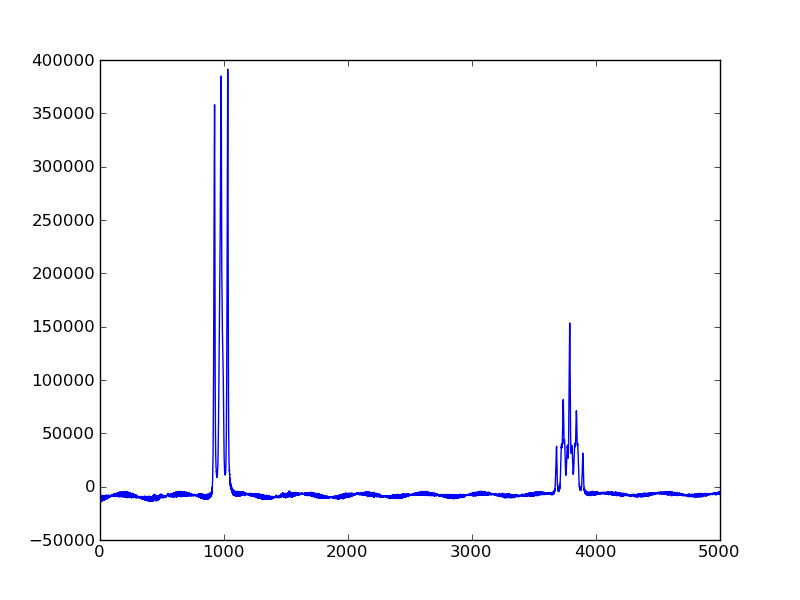
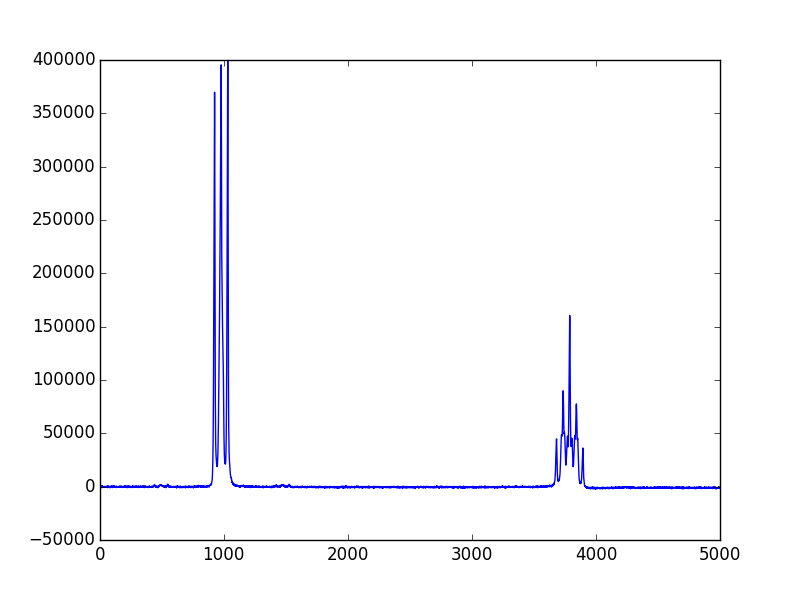
Add trucate parameter to ng.bruker.remove_digital_filter
When True this parameter causes the phase applied when removing the Bruker
digital filter to be truncated, this is the default option.

Closes #24

diff --git a/nmrglue/fileio/bruker.py b/nmrglue/fileio/bruker.py
@@ -1365,7 +1365,7 @@ bruker_dsp_table = {
 }
 
 
-def remove_digital_filter(dic, data):
+def remove_digital_filter(dic, data, truncate=True):
     """
     Remove the digital filter from Bruker data.
 
@@ -1375,6 +1375,11 @@ def remove_digital_filter(dic, data):
         Dictionary of Bruker parameters.
     data : ndarray
         Array of NMR data to remove digital filter from.
+    truncate : bool, optional
+        True to truncate the phase shift prior to removing the digital filter.
+        This typically produces a better looking spectrum but may remove
+        useful data.  False uses a non-truncated phase.
+
 
     Returns
     -------
@@ -1402,10 +1407,10 @@ def remove_digital_filter(dic, data):
     else:
         grpdly = dic['acqus']['GRPDLY']
 
-    return rm_dig_filter(data, decim, dspfvs, grpdly)
+    return rm_dig_filter(data, decim, dspfvs, grpdly, truncate)
 
 
-def rm_dig_filter(data, decim, dspfvs, grpdly=0):
+def rm_dig_filter(data, decim, dspfvs, grpdly=0, truncate_grpdly=True):
     """
     Remove the digital filter from Bruker data.
 
@@ -1418,8 +1423,13 @@ def rm_dig_filter(data, decim, dspfvs, grpdly=0):
     dspfvs : int
         Firmware version (Bruker DSPFVS parameter).
     grpdly : float, optional
-        Group delay. (Bruker GRPDLY parameter). When non-zero decom and
+        Group delay. (Bruker GRPDLY parameter). When non-zero decim and
         dspfvs are ignored.
+    truncate_grpdly : bool, optional
+        True to truncate the value of grpdly provided or determined from
+        the decim and dspfvs parameters before removing the digital filter.
+        This typically produces a better looking spectrum but may remove useful
+        data.  False uses a non-truncated grpdly value.
 
     Returns
     -------
@@ -1467,6 +1477,9 @@ def rm_dig_filter(data, decim, dspfvs, grpdly=0):
             if decim not in bruker_dsp_table[dspfvs]:
                 raise ValueError("decim not in lookup table")
             phase = bruker_dsp_table[dspfvs][decim]
+
+    if truncate_grpdly:     # truncate the phase
+        phase = np.floor(phase)
 
     # and the number of points to remove (skip) and add to the beginning
     skip = int(np.floor(phase + 2.))    # round up two integers

diff --git a/examples/bruker_data/process_and_plot_nmrglue.py b/examples/bruker_data/process_and_plot_nmrglue.py
@@ -12,7 +12,7 @@ data = ng.bruker.remove_digital_filter(dic, data)
 # process the spectrum
 data = ng.proc_base.zf_size(data, 32768)    # zero fill to 32768 points
 data = ng.proc_base.fft(data)               # Fourier transform
-data = ng.proc_base.ps(data, p0=-88.0)      # phase correction
+data = ng.proc_base.ps(data, p0=-50.0)      # phase correction
 data = ng.proc_base.di(data)                # discard the imaginaries
 data = ng.proc_base.rev(data)               # reverse the data
 
